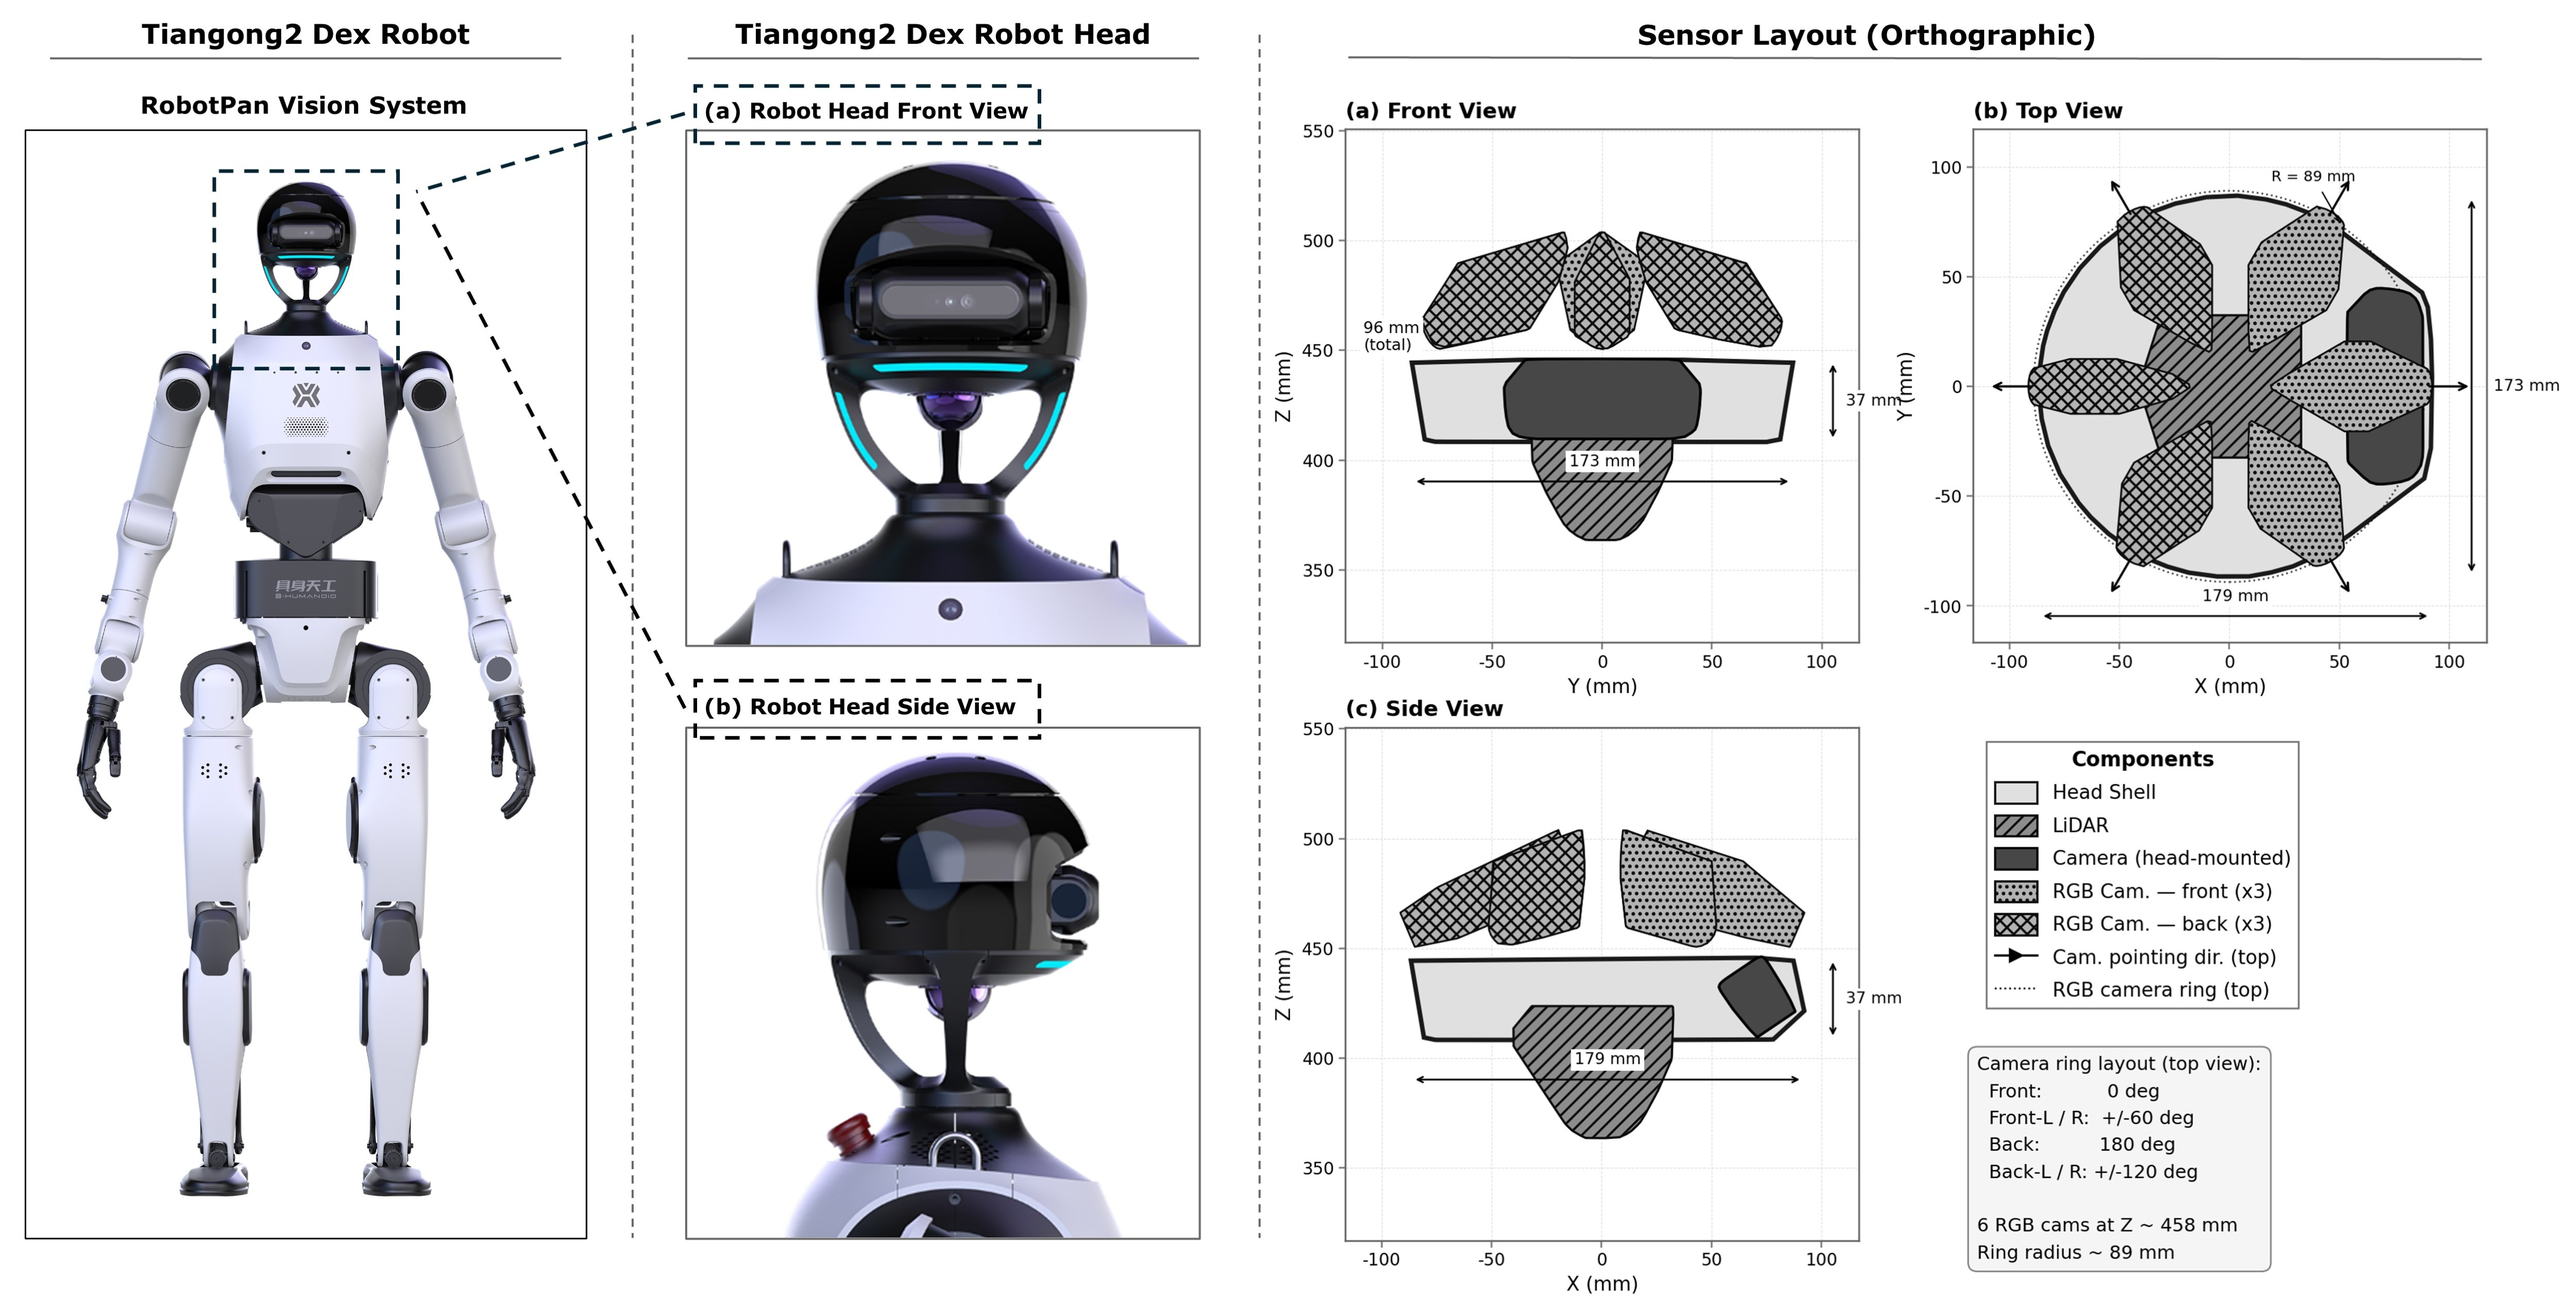
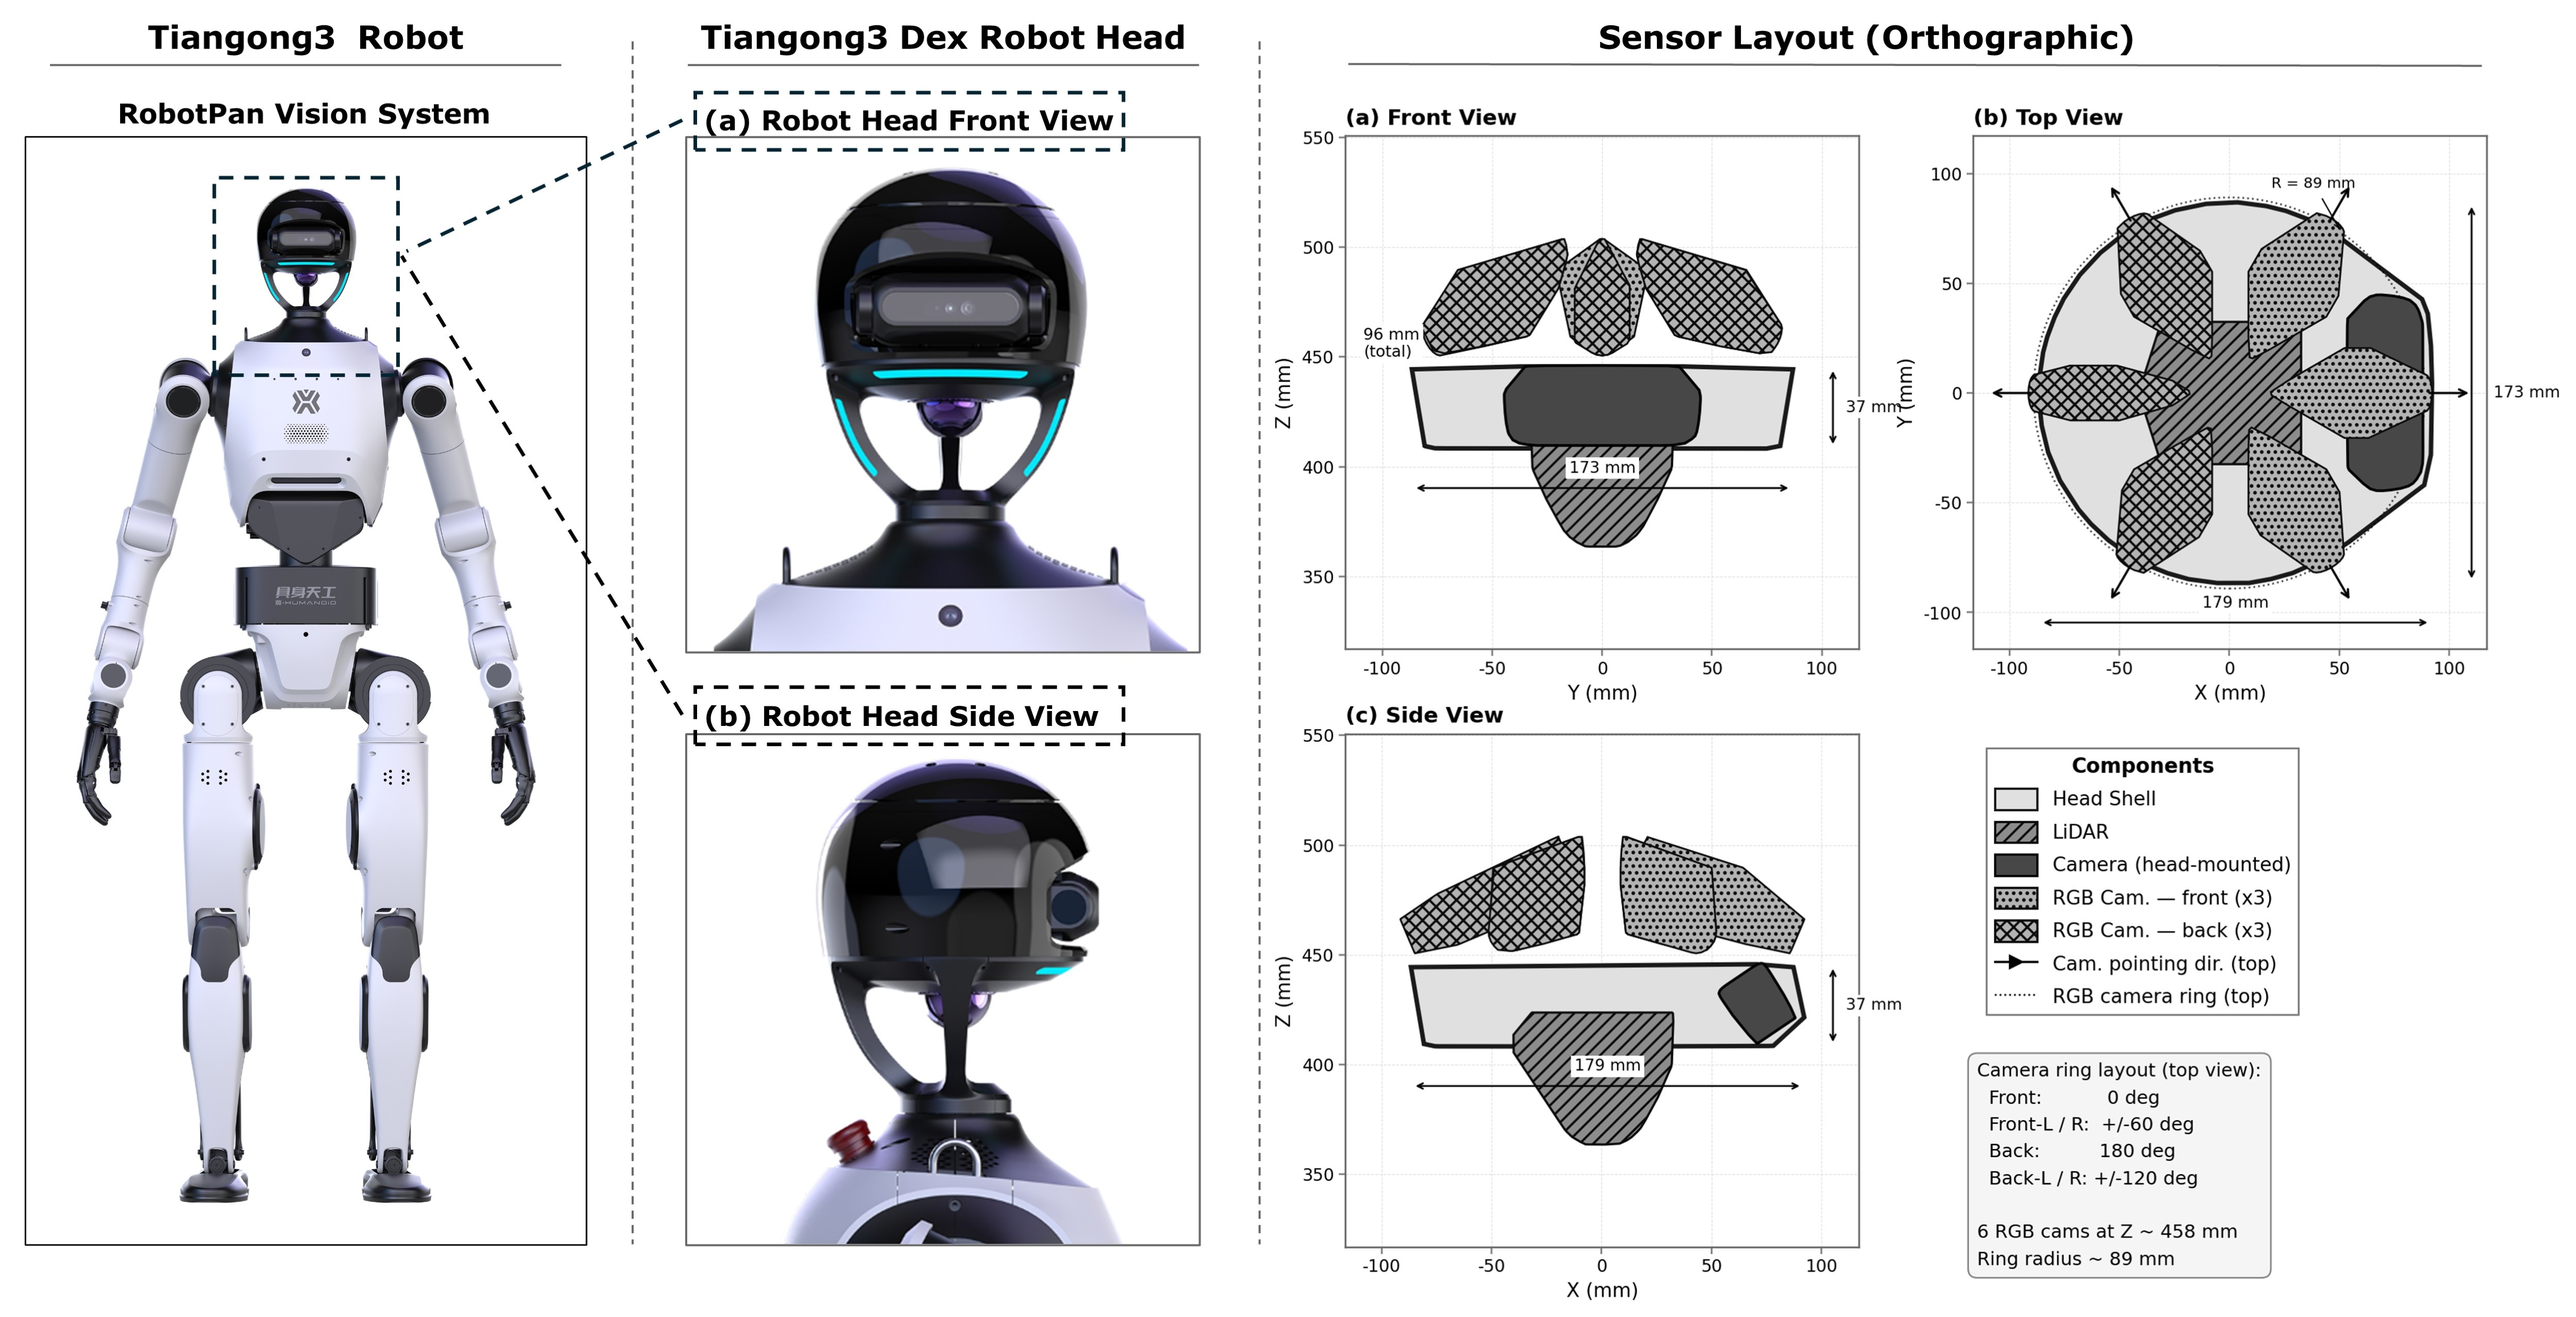
Update site: Tiangong3 Robot naming in index.html and layout figure
Made-with: Cursor

diff --git a/index.html b/index.html
@@ -370,7 +370,7 @@
     <div class="container">
       <div class="columns is-centered">
         <div class="column is-two-thirds">
-          <h2 class="title is-3" style="text-align: center;">Tiangong2 Dex Robot</h2>
+          <h2 class="title is-3" style="text-align: center;">Tiangong3 Robot</h2>
           <div class="main-video-wrapper" style="max-width: 100%; margin-top: 1.5rem;">
             <video controls autoplay loop muted playsinline>
               <source src="source/video/Tiangong2Dex.mp4" type="video/mp4">
@@ -378,16 +378,16 @@
           </div>
           <div class="content has-text-justified" style="margin-top: 0.75rem;">
             <p style="font-size: 0.95rem; font-style: italic; color: #4b5563;">
-              Tiangong2 Dex demonstrates advanced whole-body motion control, showcasing agile locomotion, dynamic balance, and coordinated limb movements across diverse terrains and tasks.
+              Tiangong3 demonstrates advanced whole-body motion control, showcasing agile locomotion, dynamic balance, and coordinated limb movements across diverse terrains and tasks.
             </p>
           </div>
           <div class="has-text-centered" style="margin-top: 1.5rem;">
-            <img src="source/figure/layout.jpg" alt="Tiangong2 Dex sensor layout"
+            <img src="source/figure/layout.jpg" alt="Tiangong3 Robot sensor layout"
                  style="width: 100%; height: auto; border-radius: 12px; box-shadow: 0 12px 28px rgba(15, 23, 42, 0.16);">
           </div>
           <div class="content has-text-justified" style="margin-top: 1rem;">
             <p>
-              <strong>Tiangong2 Dex Robot and its RobotPan Vision System sensor layout.</strong> 
+              <strong>Tiangong3 Robot and its RobotPan Vision System sensor layout.</strong> 
               <strong>Left:</strong> Full-body view of the robot highlighting the head region. 
               <strong>Middle:</strong> Close-up front and side views of the robot head. 
               <strong>Right:</strong> Orthographic projections of the head-mounted sensing system. 
